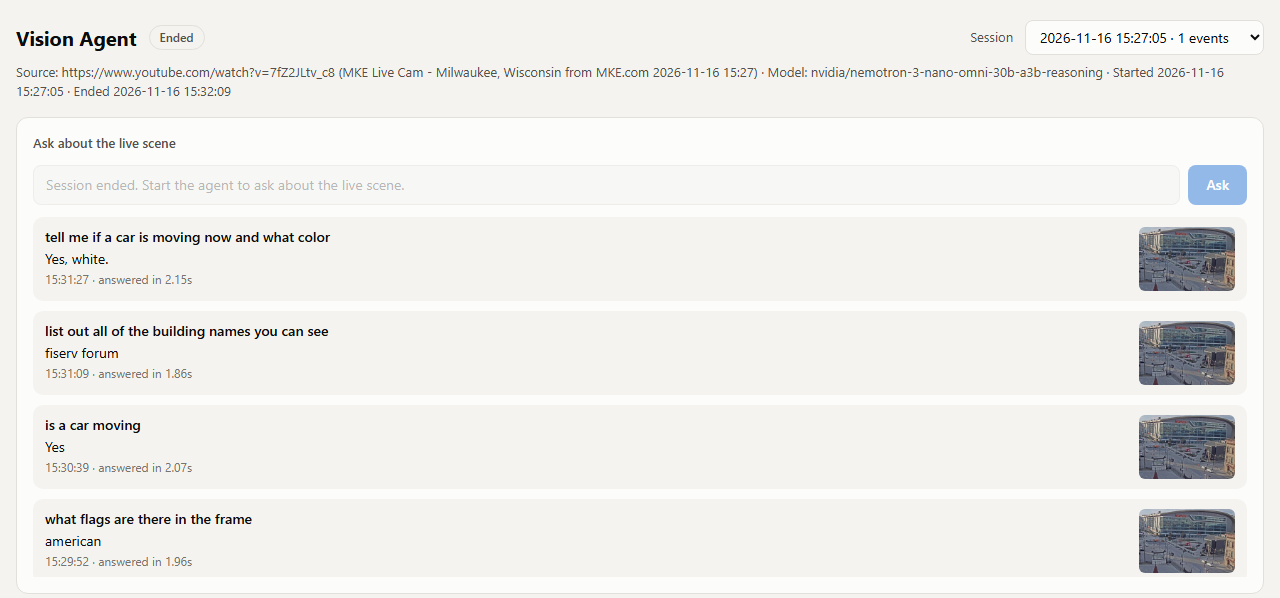
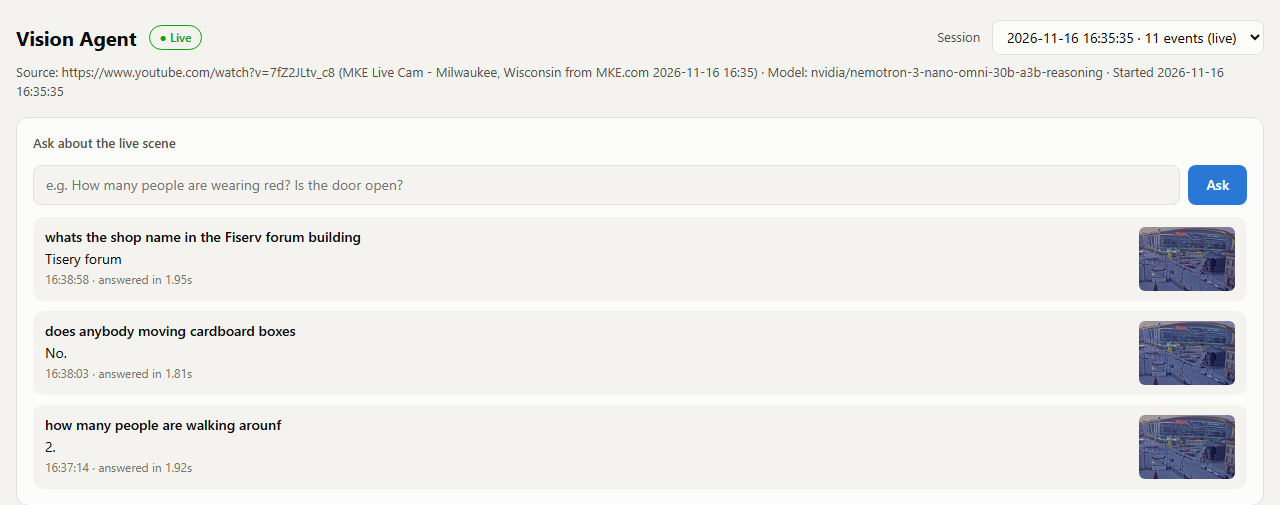
README: retake screenshots from a live session with the new prompts; add visual prompting example

diff --git a/README.md b/README.md
@@ -24,15 +24,22 @@ every frame. See [How it works](#how-it-works-yolo--vision-language-models) for 
 All screenshots are from real runs on a public YouTube live cam (Fiserv Forum, Milwaukee) with the
 `nvidia/nemotron-3-nano-omni-30b-a3b-reasoning` VLM.
 
-**Live dashboard:** KPIs, event timeline, breakdowns by type/class/zone, and alerts with their
-snapshot and the VLM's description.
+**Live dashboard:** the Ask box, KPIs, event timeline, breakdowns by type/class/zone, the latest
+VLM scene summary, and alerts with their snapshot and the VLM's description.
 
-![Dashboard showing 44 events, 9 alerts, an events-per-10s timeline, a VLM scene summary and alert cards with snapshots](docs/images/dashboard.png)
+![Live dashboard session: Ask box with three answered questions, 11 events, 3 alerts, 1.7 s average VLM latency, an events-per-10s timeline, a twilight scene summary of the Fiserv Forum, and alert cards such as "A white car is driving down the street."](docs/images/dashboard.png)
 
 **Ask about the live scene:** natural-language questions answered by the VLM about the current
-frame, with the exact frame it looked at and the response time.
+frame in under 2 seconds, with the exact frame it looked at. Answers are not always right: here
+it reads the "Fiserv Forum" sign as "Tisery forum" (see [Limitations](#limitations)).
 
-![Ask box with questions such as "list out all of the building names you can see" answered "fiserv forum" in under 2.2 seconds](docs/images/ask.png)
+![Ask box: "how many people are walking around" answered "2", "does anybody moving cardboard boxes" answered "No", and the shop-name question answered "Tisery forum"](docs/images/ask.png)
+
+**Visual prompting:** for each alert the CV model's box is drawn on the frame in red before it is
+sent to the VLM, so the description is about the right object. For this frame the VLM returned
+*"The car is driving down the street, and there is a person standing on the sidewalk next to it."*
+
+![Twilight street scene in front of the Fiserv Forum with one car outlined by a red box](docs/images/visual-prompt.jpg)
 
 **What the CV model sees:** YOLO11n detections and a drawn zone, rendered with the agent's own
 overlay on a frame from the same stream.
